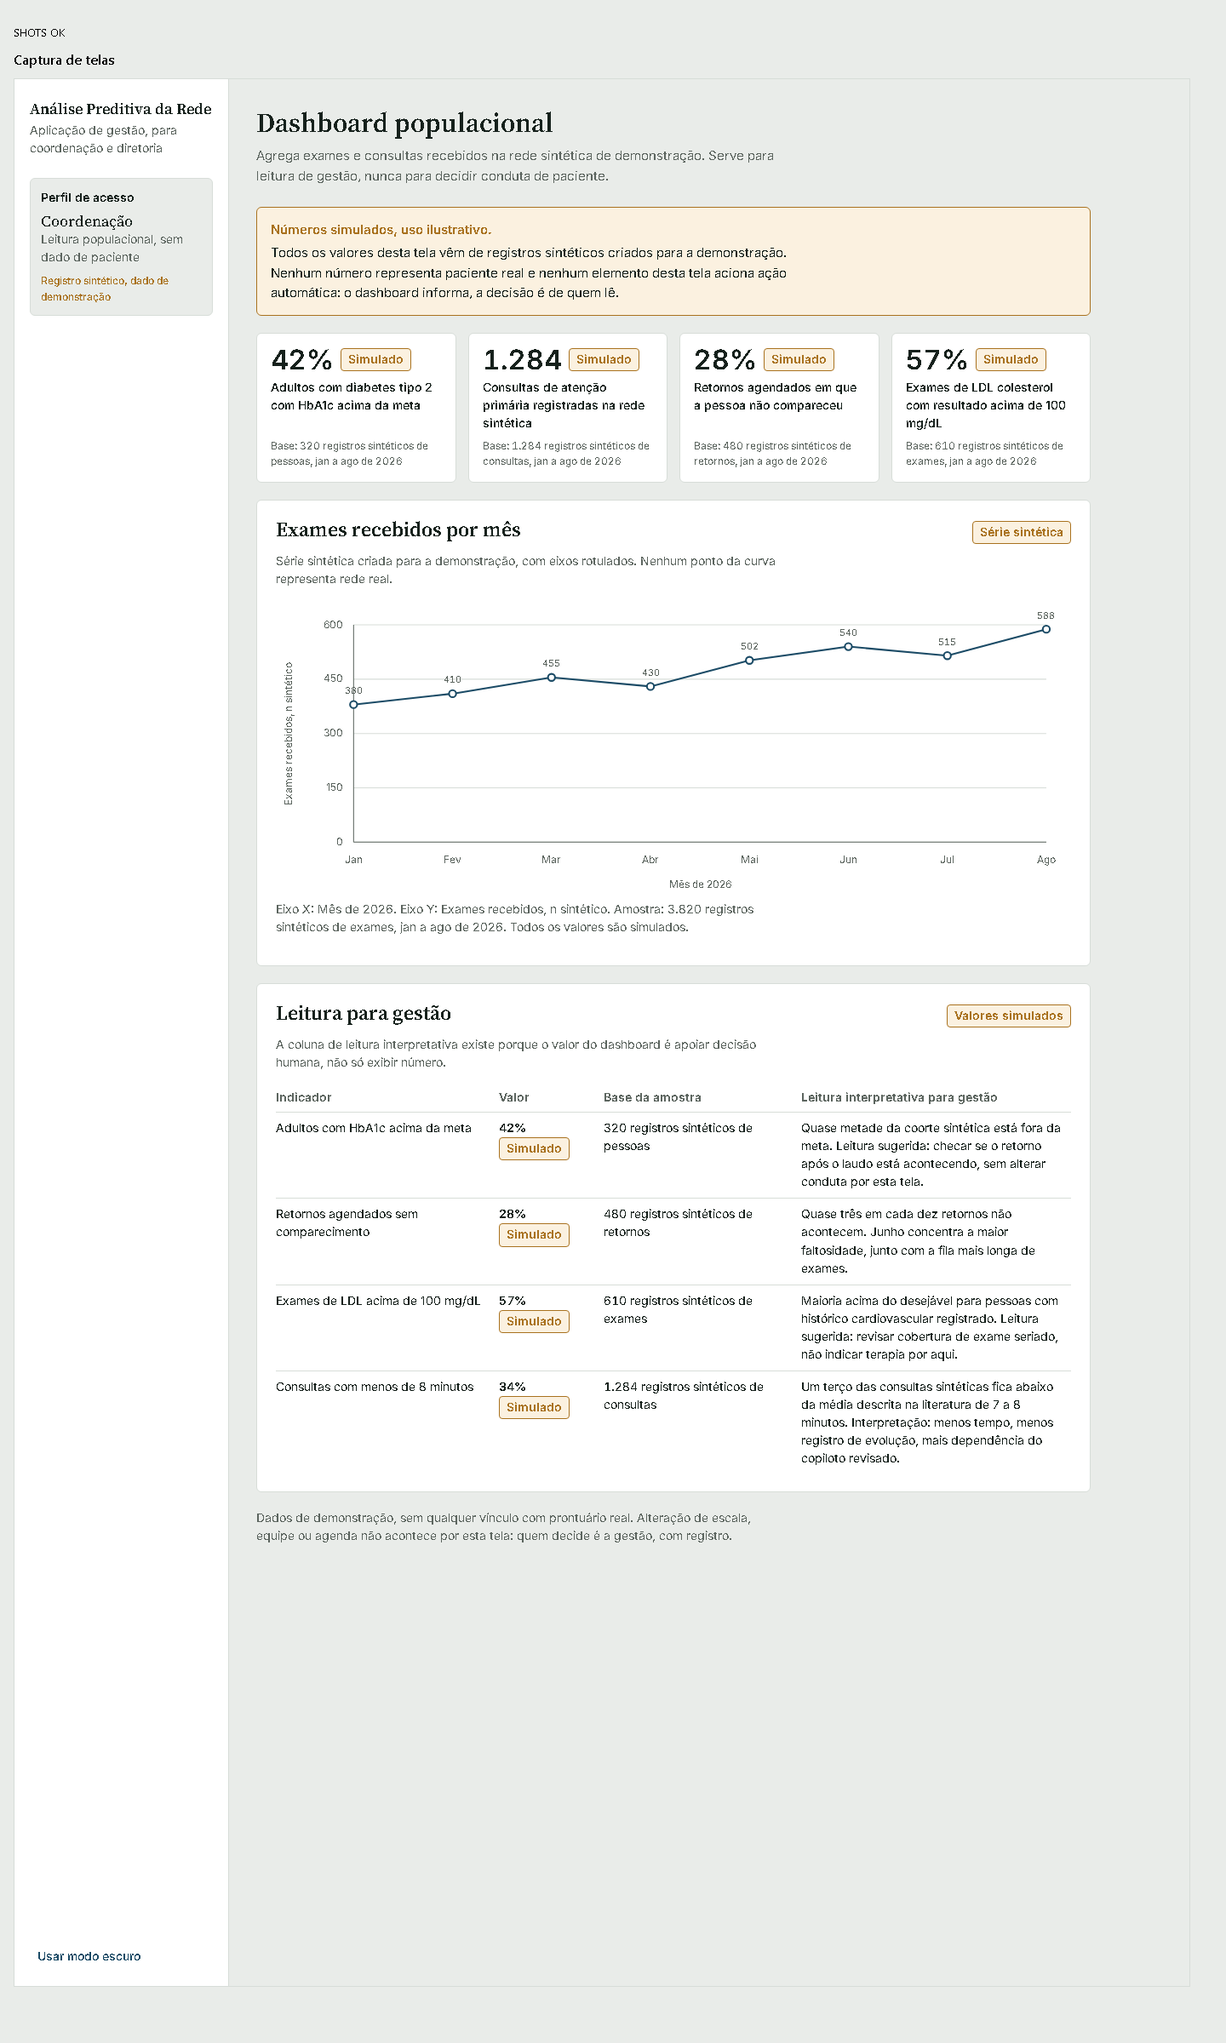
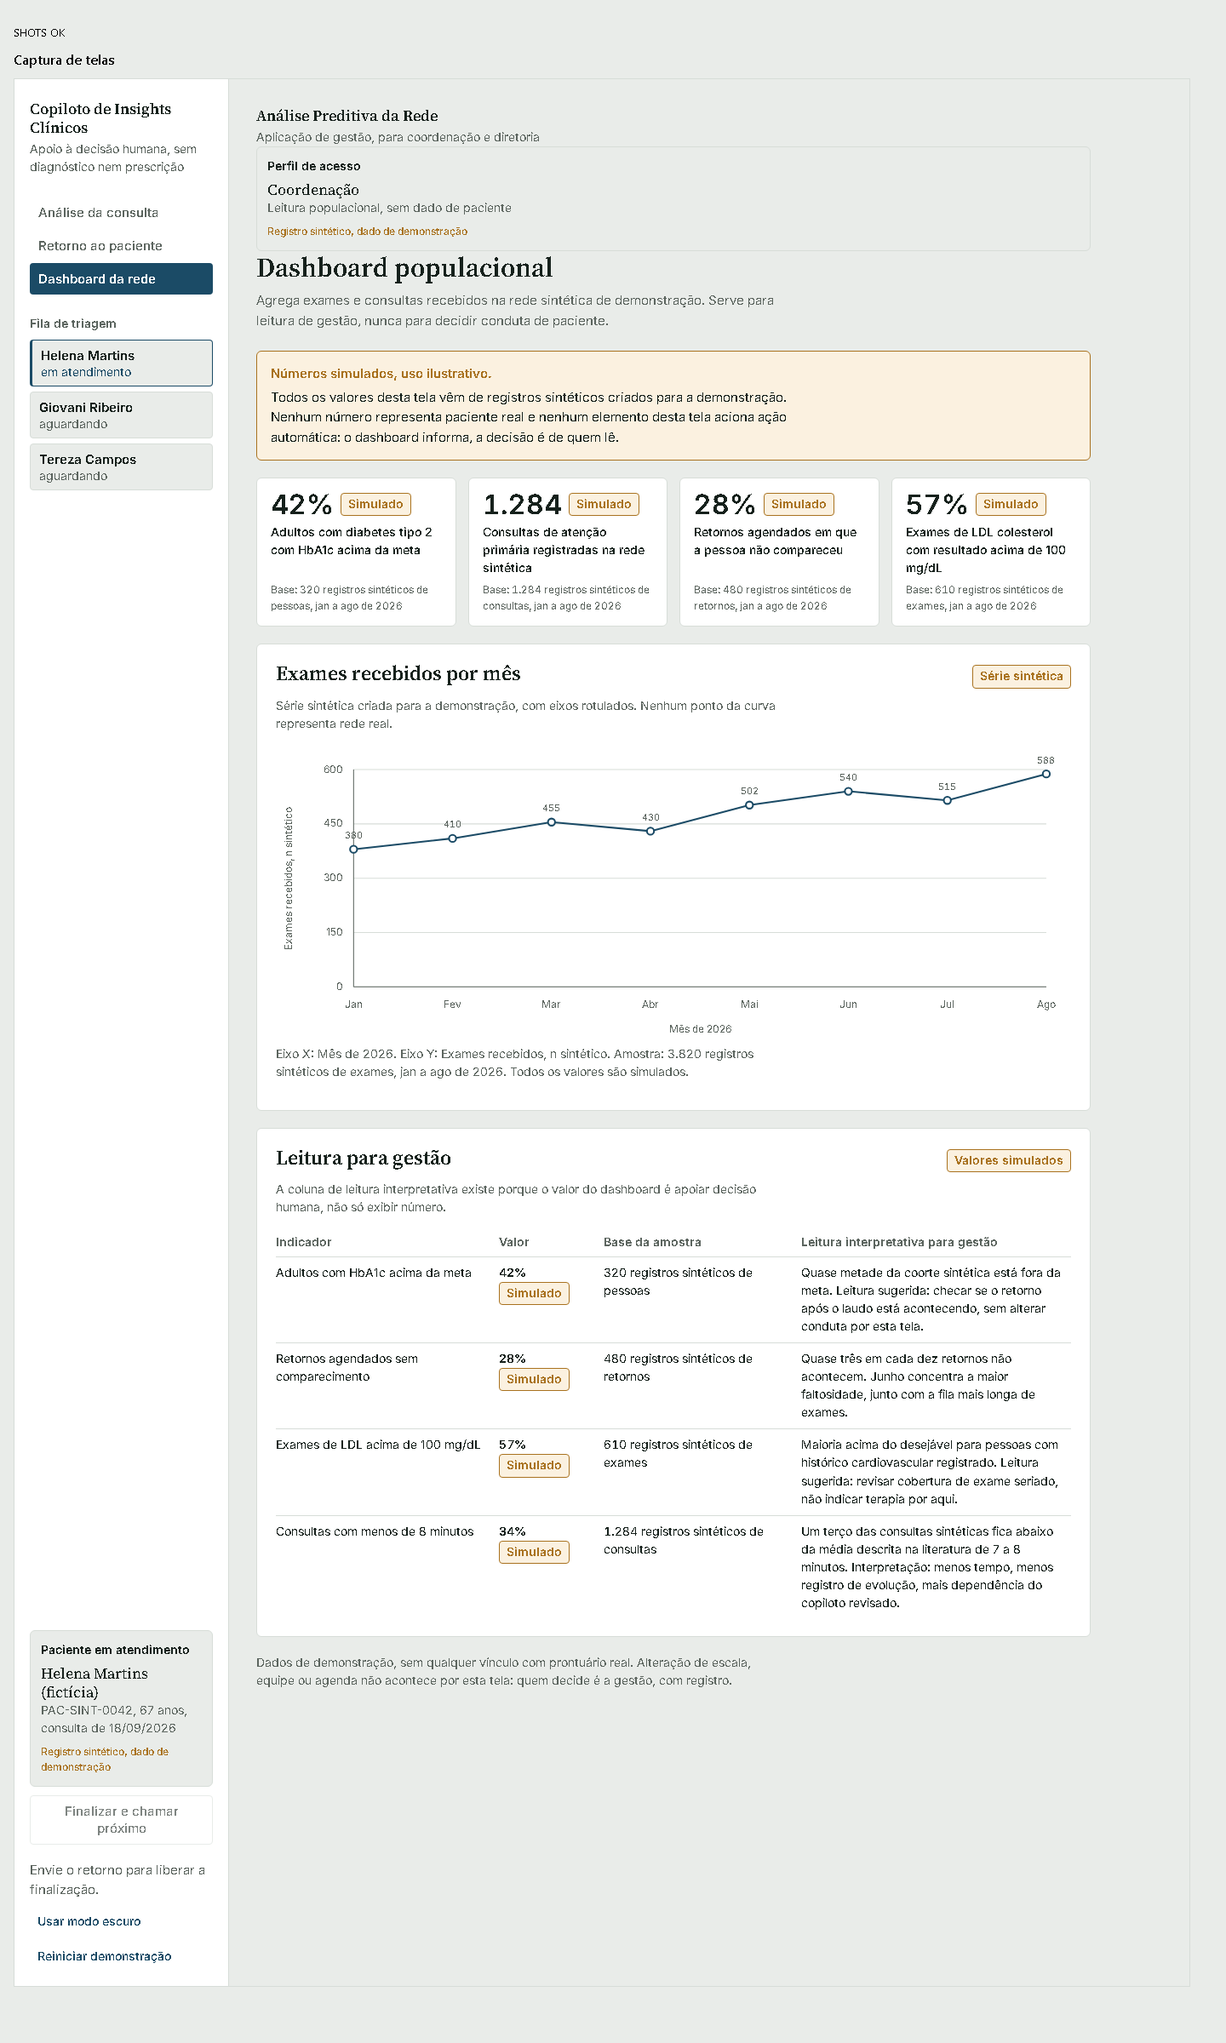
docs: ensaio do pitch - corrige espacos comidos, escopa alegacao do dashboard e recaptura dashboard no app unificado

diff --git a/scripts/data/prontuario.js b/scripts/data/prontuario.js
@@ -1,5 +1,5 @@
 /* Prontuários sintéticos — dados de demonstração, sem vínculo com paciente real.
-   A fila tem3 pacientes; CM.data.prontuario é o ponteiro do paciente atual
+   A fila tem 3 pacientes; CM.data.prontuario é o ponteiro do paciente atual
    (app.js troca o ponteiro ao navegar na fila, antes de qualquer render). */
 window.CM = window.CM || {};
 

diff --git a/docs/matriz-de-aderencia.md b/docs/matriz-de-aderencia.md
@@ -18,12 +18,12 @@ aplicação de gestão —, arquivo de código ou captura em `docs/`).
 
 | Critério | Como o produto responde | Onde está | Evidência |
 |---|---|---|---|
-| Tela de análise da consulta | Prontuário + transcrição cruzados pelo motor ao clicar "Analisar consulta": cartões com filtros e ações por cartão (7 para Helena,1 para bloqueado) | `#analise`, `scripts/ui/analise.js`, `scripts/engine/insights.js` | teste `todas as regras do motor dispararam`; capturas `tela-analise-claro/escuro.png` |
-| Fila de triagem de3 pacientes | Helena → Giovani → Tereza, cada um com regras, transcrição, marcações e retorno próprios; finalizar só libera após o envio; concluídos viram "atendido" | `scripts/app.js` (`dadosFila`, `finalizarAtual`, `renderFila`), `scripts/data/prontuario.js` | testes `fila de triagem lista todos os pacientes`, `paciente atual destacado na fila`, `motor do paciente da fila dispara só as regras dele`, `marcações da análise não vazam para o paciente seguinte`, `terceiro paciente entra ao concluir o segundo`, `dois pacientes concluídos aparecem como atendidos` |
+| Tela de análise da consulta | Prontuário + transcrição cruzados pelo motor ao clicar "Analisar consulta": cartões com filtros e ações por cartão (7 para Helena, 1 para bloqueado) | `#analise`, `scripts/ui/analise.js`, `scripts/engine/insights.js` | teste `todas as regras do motor dispararam`; capturas `tela-analise-claro/escuro.png` |
+| Fila de triagem de 3 pacientes | Helena → Giovani → Tereza, cada um com regras, transcrição, marcações e retorno próprios; finalizar só libera após o envio; concluídos viram "atendido" | `scripts/app.js` (`dadosFila`, `finalizarAtual`, `renderFila`), `scripts/data/prontuario.js` | testes `fila de triagem lista todos os pacientes`, `paciente atual destacado na fila`, `motor do paciente da fila dispara só as regras dele`, `marcações da análise não vazam para o paciente seguinte`, `terceiro paciente entra ao concluir o segundo`, `dois pacientes concluídos aparecem como atendidos` |
 | Transcrição: ditado ao vivo + organizador | O painel abre no "Ditado da consulta": **Falar agora** ou atalho **Ctrl+Shift+Espaço** (com a aba em foco) dispara a Web Speech API em pt-BR, o texto entra ao vivo e o encerrar marca a etapa **"Transcrição concluída às HH:MM"**; **Organizar em partes** (`scripts/engine/organizar.js`) remove mudaças e repetições e separa a fala em partes rotuladas e editáveis (Motivo da queixa, Sintomas, Medicamentos, Exames, Observações) — só **Usar esta transcrição** torna o ditado a transcrição em uso. O alternador mantém o **Exemplo da consulta** (padrão de demonstração, sem microfone) e o fallback discreto **Sem microfone? Cole o texto** | `scripts/ui/analise.js` (`ditado`, `iniciarDitado`, `estadoTranscricao`), `scripts/engine/organizar.js` | testes `visão de ditado abre com o botão Falar agora`, `Ctrl+Shift+Espaço inicia o ditado`, `a fala entra na transcrição ao vivo`, `encerrar marca a transcrição como concluída com horário`, `organizar separa a fala em partes rotuladas`, `cada parte organizada fica editável`, `usar esta transcrição torna o ditado a transcrição em uso`, `motor roda sobre o ditado organizado`, `suíte volta ao exemplo pronto para seguir o fluxo`, `transcrição oferece exemplo pronto e campo para colar` |
 | Retorno ao paciente | Resumo gerado do caso, validação em três passos (texto → revisão → clique), **Enviar ao cliente** abrindo o WhatsApp com o texto pronto e gravando a hora, histórico, reabertura do rascunho | `#retorno`, `scripts/ui/retorno.js` | testes `resumo gerado a partir da consulta`, `validação registrada após clique explícito`, `enviar ao cliente abre o WhatsApp com texto pronto (wa.me)`, `link do WhatsApp carrega o texto do resumo`, `status do retorno vira enviado com horário`, `validação pode ser desfeita pelo profissional` |
 | Redação editável em cada cartão | Todo cartão (pendente, aceito, ignorado, bloqueado) oferece **Editar**; o campo abre com a redação atual, salvo aplicada; aceitos editados alimentam o resumo | `scripts/ui/analise.js` (`editando`, `aceitos`) | testes `cartão pendente oferece editar a redação`, `editar abre o campo já com a redação atual`, `salvar aplica a redação corrigida no cartão`, `resumo regenerado usa a redação corrigida do ponto aceito` |
-| Dashboard como terceira tela do app, com o app de gestão próprio preservado | O app do médico ganhou a tela **Dashboard da rede** (marca e perfil de acesso da coordenação no topo, sem fila nem paciente); `/gestao/` continua como página independente, inalterada, para o público de gestão | `index.html` (`#tela-dashboard`, item `data-tela="dashboard"`), `scripts/app.js` (`TELAS`), `scripts/ui/dashboard.js`, `gestao/index.html` (inalterado) | testes `dashboard é a terceira tela do app do médico`, `navegar para Dashboard da rede abre a tela de gestão`, `dashboard renderiza kpis, gráfico e tabela no app unificado` (médico) e `gestão não exibe dado de paciente` (gestão) |
+| Dashboard como terceira tela do app, com o app de gestão próprio preservado | O app do médico ganhou a tela **Dashboard da rede** (conteúdo da tela com marca e perfil de acesso da coordenação no topo, sem fila nem paciente; a barra lateral comum às três telas mantém a fila e o paciente); `/gestao/` continua como página independente, inalterada, para o público de gestão | `index.html` (`#tela-dashboard`, item `data-tela="dashboard"`), `scripts/app.js` (`TELAS`), `scripts/ui/dashboard.js`, `gestao/index.html` (inalterado) | testes `dashboard é a terceira tela do app do médico`, `navegar para Dashboard da rede abre a tela de gestão`, `dashboard renderiza kpis, gráfico e tabela no app unificado` (médico) e `gestão não exibe dado de paciente` (gestão) |
 | Navegação e estado da sessão | Navegação por hash com item ativo; marcações, transcrição, resumo, histórico, fila e tema sobrevivem a F5, paciente por paciente; reinício em um clique com confirmação | `scripts/app.js`, `scripts/ui/util.js` (`store`) | testes `navegação troca de tela`, fase de persistência (`sobrevive ao recarregamento`, `restaurado`, `preservado`), `existe botão de reiniciar demonstração`, `reinício limpa o resultado da análise` |
 
 ## C. Insight com fonte rastreável
@@ -52,21 +52,21 @@ aplicação de gestão —, arquivo de código ou captura em `docs/`).
 | Modo escuro invertendo luminância, mantendo semântica — e como padrão | Escopo `[data-tema="escuro"]` redefine os tokens; as duas aplicações nascem em `data-tema="escuro"` | `styles/tokens.css`; `scripts/app.js` (tema) | teste `alternador de tema funciona`; capturas `*-escuro.png` (padrão das telas) |
 | Source Serif 4 em títulos + Inter na interface | Tokens `--fonte-titulo` e `--fonte-ui`; fontes auto-hospedadas (woff2 latin), zero rede | `styles/fontes.css`, `styles/fontes/*.woff2` | capturas (renderização serifada nos títulos) |
 | No máximo 5–6 tamanhos de tipo | Escala fechada `--t-1`…`--t-6`, "sem intermediários" | `styles/tokens.css` | leitura direta |
-| Dados em `tabular-nums` | `font-variant-numeric: tabular-nums` em fichas, KPIs, tabela e log | `styles/app.css` | grep: ocorrências em8 regras |
-| Linhas de leitura abaixo de 80 caracteres | `--largura-leitura:68ch` aplicado aos blocos de texto | `styles/tokens.css` | leitura direta + capturas |
-| Sidebar240–260px e área principal ~980px | `--sidebar-largura:252px`, `--area-largura:980px` | `styles/tokens.css` | capturas desktop |
-| Raio4–6px | `--raio-painel:6px`, `--raio-controle:4px` | `styles/tokens.css` | capturas |
+| Dados em `tabular-nums` | `font-variant-numeric: tabular-nums` em fichas, KPIs, tabela e log | `styles/app.css` | grep: ocorrências em 8 regras |
+| Linhas de leitura abaixo de 80 caracteres | `--largura-leitura: 68ch` aplicado aos blocos de texto | `styles/tokens.css` | leitura direta + capturas |
+| Sidebar 240–260px e área principal ~980px | `--sidebar-largura: 252px`, `--area-largura: 980px` | `styles/tokens.css` | capturas desktop |
+| Raio 4–6px | `--raio-painel: 6px`, `--raio-controle: 4px` | `styles/tokens.css` | capturas |
 | Sem rótulos em caixa-alta, sem "→" em botões, sem " · " decorativo | Nenhum `text-transform` ou `letter-spacing` em todo o CSS; testes varrem botões e texto | `styles/*.css` | testes `nenhum botão com seta decorativa` e `nenhum separador decorativo no texto`; grep `text-transform` =0 |
 
 ## F. Entrega e verificação
 
 | Critério | Como o produto responde | Onde está | Evidência |
 |---|---|---|---|
-| App real, testável, sem build | HTML/CSS/JS puros; roda com `python -m http.server8017` ou direto pelo `file://` | `README.md` (Como rodar) | carga via `file://` validada sem erros de console |
-| Suíte de aceitação automatizada (médico) | Fluxo de ponta a ponta: limpo → suíte principal (fonte rastreável, bloqueio, ditado ao vivo com organizador, transcrição exemplo↔colado, dashboard como terceira tela, validação, envio `wa.me`) → persistência → **paciente2 completo** → **terceiro paciente** → volta ao anterior → reinício | `testes/smoke.html` | título `ALL PASS 100 testes` |
-| Suíte da aplicação de gestão | Separação de públicos, KPIs, gráfico, tabela, botões=0, tema | `testes/smoke-gestao.html` | título `ALL PASS11 testes` |
-| Verificação em390px reais | Medidor e captura por iframe (o `--window-size` do headless não desce de500 no layout) | `testes/mobile.html` | título `OK scrollW=…` (até390); captura `docs/tela-analise-mobile.png` |
-| Material para apresentação |8 capturas (análise claro/escuro, bloqueio, retorno claro/escuro, dashboard claro/escuro, mobile) e roteiro de3 minutos amarrado aos critérios | `docs/` | `docs/roteiro-do-pitch.md` |
+| App real, testável, sem build | HTML/CSS/JS puros; roda com `python -m http.server 8017` ou direto pelo `file://` | `README.md` (Como rodar) | carga via `file://` validada sem erros de console |
+| Suíte de aceitação automatizada (médico) | Fluxo de ponta a ponta: limpo → suíte principal (fonte rastreável, bloqueio, ditado ao vivo com organizador, transcrição exemplo↔colado, dashboard como terceira tela, validação, envio `wa.me`) → persistência → **paciente 2 completo** → **terceiro paciente** → volta ao anterior → reinício | `testes/smoke.html` | título `ALL PASS 100 testes` |
+| Suíte da aplicação de gestão | Separação de públicos, KPIs, gráfico, tabela, botões=0, tema | `testes/smoke-gestao.html` | título `ALL PASS 11 testes` |
+| Verificação em 390px reais | Medidor e captura por iframe (o `--window-size` do headless não desce de 500 no layout) | `testes/mobile.html` | título `OK scrollW=…` (até 390); captura `docs/tela-analise-mobile.png` |
+| Material para apresentação | 8 capturas (análise claro/escuro, bloqueio, retorno claro/escuro, dashboard claro/escuro, mobile) e roteiro de 3 minutos amarrado aos critérios | `docs/` | `docs/roteiro-do-pitch.md` |
 | Estado à prova de demo | Persistência por paciente em `localStorage` (`copiloto.v1.*`), modo `?sem-estado=1` e botão de reinício com confirmação | `scripts/ui/util.js`, `scripts/app.js` | fases de persistência, de troca de paciente e de reinício do smoke |
 
 ## G. Fora do escopo — declarado como pendência (nunca prometido)
@@ -76,5 +76,5 @@ aplicação de gestão —, arquivo de código ou captura em `docs/`).
 | Envio e confirmação programáticos por WhatsApp | O app **abre o WhatsApp com o texto pronto** (`wa.me`, sem número embutido) só depois da validação; disparo, escolha de contato e leitura da entrega são manuais do profissional | `README.md` Pendências; testes `envio abre o WhatsApp só depois da validação` e `enviar ao cliente abre o WhatsApp com texto pronto (wa.me)` |
 | LGPD completa | Documentada como pendência, sem conformidade inventada | `README.md` Pendências |
 | Autenticação/produção | Documentada como pendência | `README.md` Pendências |
-| Prontuário eletrônico real e base controlada curada | Dados sintéticos + base de6 documentos demonstram o formato de integração | `scripts/data/base-controlada.js`; `README.md` Pendências |
+| Prontuário eletrônico real e base controlada curada | Dados sintéticos + base de 6 documentos demonstram o formato de integração | `scripts/data/base-controlada.js`; `README.md` Pendências |
 | Modelos treinados | Motor de regras explícitas + RAG TF-IDF em memória, declarados e auditáveis | `scripts/engine/*`; `README.md` (Como o motor funciona) |

diff --git a/docs/roteiro-do-pitch.md b/docs/roteiro-do-pitch.md
@@ -3,9 +3,9 @@
 Duração alvo: 3 minutos. Três blocos de 30 segundos + abertura e fechamento.
 Cada bloco amarra um critério do desafio à tela que o prova.
 
-## Antes de subir no palco (checklist de1 minuto)
+## Antes de subir no palco (checklist de 1 minuto)
 
-1. Servidor de pé (`python -m http.server8017`) **ou** `index.html` aberto
+1. Servidor de pé (`python -m http.server 8017`) **ou** `index.html` aberto
    direto pelo `file://` — os dois funcionam para o app.
 2. Estado zerado: rode `http://127.0.0.1:8017/testes/smoke.html` uma vez
    (ele limpa o `localStorage` ao terminar) ou execute `localStorage.clear()`
@@ -13,9 +13,10 @@ Cada bloco amarra um critério do desafio à tela que o prova.
    feita no palco é visível e sobrevive a um F5.
 3. Tema escuro é o padrão (boa projeção); o claro está a um clique no rodapé
    da barra lateral.
-4. Conferir as capturas em `docs/` caso o projetor falhe — os8 PNGs cobrem
+4. Conferir as capturas em `docs/` caso o projetor falhe — os 8 PNGs cobrem
    análise (painel de ditado) e retorno nos dois temas, o caso de bloqueio, o
-   dashboard nos dois temas e a versão de celular; a barra lateral já mostra
+   dashboard nos dois temas e a versão de celular; a barra lateral (ou o topo,
+   no celular) já mostra
    as três telas.
 
 ## Abertura (20 segundos)
@@ -29,7 +30,7 @@ Cada bloco amarra um critério do desafio à tela que o prova.
 
 Tela: `#analise`, estado inicial (fila, prontuário + transcrição visíveis).
 
-## Bloco1 — Fonte rastreável (30 segundos)
+## Bloco 1 — Fonte rastreável (30 segundos)
 
 Critério: *todo insight relevante precisa de origem verificável.*
 
@@ -52,7 +53,7 @@ Demo opcional ao vivo (só com microfone e HTTPS, ex.: GitHub Pages): pressione
 Ctrl+Shift+Espaço, fale uma frase, **Encerrar ditado** → "Transcrição
 concluída" → **Organizar em partes** → **Usar esta transcrição**.
 
-## Bloco2 — Caso de bloqueio (30 segundos)
+## Bloco 2 — Caso de bloqueio (30 segundos)
 
 Critério: *sem evidência suficiente, o sistema não sugere — ele escala para
 humano.*
@@ -60,23 +61,24 @@ humano.*
 Ação: rolar até o cartão vermelho "Uso interrompido de medicamento para dormir".
 
 > "Este caso o copiloto **se recusou** a sugerir qualquer coisa: nenhum dos
-> seis documentos da base casou com o relato, escore0,00 contra o limiar de
->0,28, e o prontuário não registra qual medicamento a paciente usa. O cartão
-> mostra o motivo, aponta as lacunas e só oferece um botão: registrar
-> encaminhamento para revisão humana — com clique, nunca automático."
+> seis documentos da base casou com o relato, escore 0,00 contra o limiar de
+> 0,28, e o prontuário não registra qual medicamento a paciente usa. O cartão
+> mostra o motivo, aponta as lacunas e não oferece aceitar nem ignorar: só
+> registrar encaminhamento para revisão humana — com clique, nunca automático.
+> (Há também **Editar**, que só corrige a redação, como em todo cartão)."
 
 Destaque na tela: "Motivo do bloqueio" + "Encaminhamento humano" +
 botão "Registrar encaminhamento para revisão"
 (captura: `docs/tela-analise-bloqueio-claro.png`).
 
-## Bloco3 — Validação e envio com trava (30 segundos)
+## Bloco 3 — Validação e envio com trava (30 segundos)
 
 Critério: *nenhuma ação externa sem validação explícita do profissional;
 o sistema nunca orienta conduta.*
 
 Ação: tela `#retorno`.
 
-1. Digitar no fim do resumo: "A senhora deve tomar500 mg pela manhã." e clicar
+1. Digitar no fim do resumo: "A senhora deve tomar 500 mg pela manhã." e clicar
    em **Validar registro** → o produto **bloqueia** e explica: contém dose.
 2. Apagar a frase, marcar a caixa de revisão, clicar de novo → vira
    **Validado**, com registro no histórico: "nenhuma mensagem foi enviada
@@ -98,8 +100,10 @@ Captura: `docs/tela-retorno-claro.png`.
 Critério: *número sem amostra e sem leitura é armadilha.*
 
 Clique em **Dashboard da rede** na barra lateral — mesma aplicação, terceira
-tela, sem nenhum dado de paciente. (`https://ruanalmeida.github.io/RRB-AMO/gestao/`
-segue no ar como página própria para o público de coordenação.)
+tela. O conteúdo da tela é de coordenação e não tem dado de paciente — a
+barra lateral, como em toda a aplicação, segue com a fila e o paciente em
+atendimento. (`https://ruanalmeida.github.io/RRB-AMO/gestao/` segue no ar como
+página própria para o público de coordenação, sem fila nem paciente.)
 
 > "Todo número traz selo visível de 'Simulado' e a base que o sustenta. O
 > gráfico tem eixos rotulados, a tabela tem coluna de leitura interpretativa,
@@ -111,7 +115,7 @@ Capturas: `docs/tela-dashboard-claro.png` e `docs/tela-dashboard-escuro.png`.
 
 > "Três limites provados ao vivo: fonte rastreável em cada sugestão, bloqueio
 > quando a evidência falta e validação obrigatória — o WhatsApp só abre
-> depois dela. Fila de três pacientes, estado por paciente, dados100%
+> depois dela. Fila de três pacientes, estado por paciente, dados 100%
 > sintéticos. As pendências — envio programático, LGPD, integração com
 > prontuário — estão no README, declaradas, sem promessa fantasma."
 
